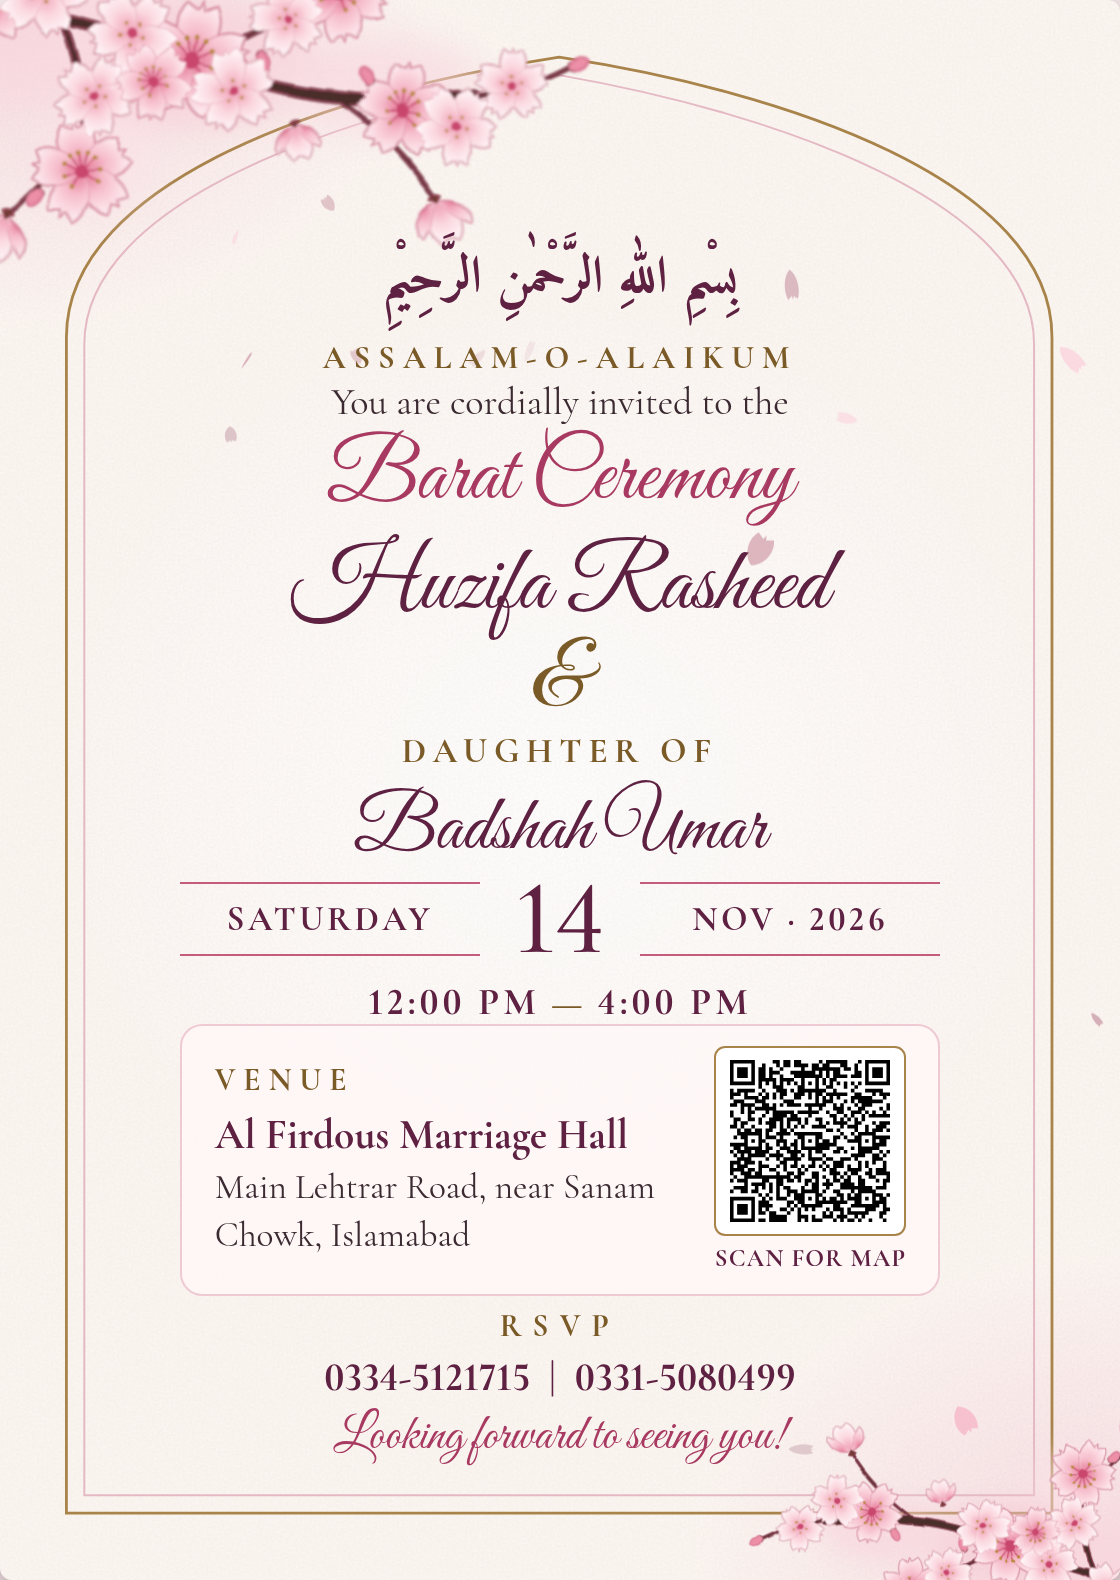
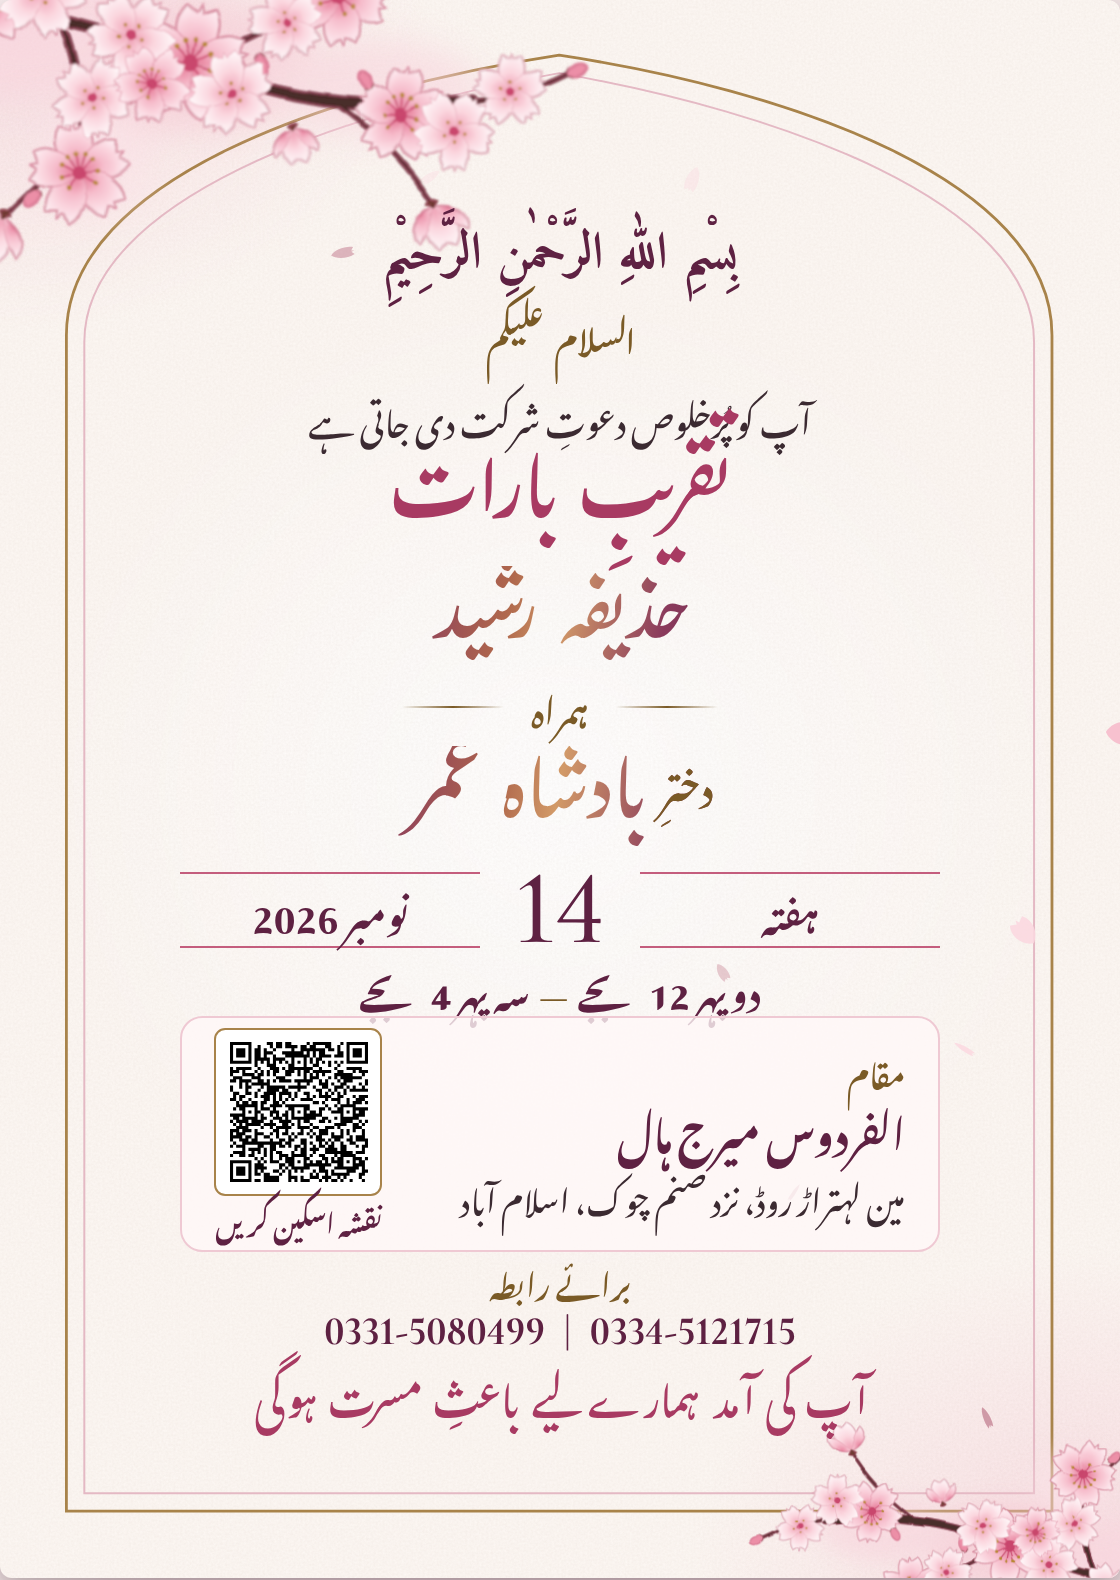
Urdu white (Blush) card: RTL Nastaliq typography, single-design mode, ivory envelope, rose-gold names, countdown

diff --git a/index.html b/index.html
@@ -10,7 +10,7 @@
 <meta property="og:image" content="card.png">
 <link rel="preconnect" href="https://fonts.googleapis.com">
 <link rel="preconnect" href="https://fonts.gstatic.com" crossorigin>
-<link href="https://fonts.googleapis.com/css2?family=Amiri:wght@400;700&family=Cormorant+Garamond:ital,wght@0,400;0,500;0,600;0,700;1,500&family=Great+Vibes&display=swap" rel="stylesheet">
+<link href="https://fonts.googleapis.com/css2?family=Amiri:wght@400;700&family=Cormorant+Garamond:ital,wght@0,400;0,500;0,600;0,700;1,500&family=Great+Vibes&family=Gulzar&family=Noto+Nastaliq+Urdu:wght@400;500;600;700&display=swap" rel="stylesheet">
 <style>
 :root{--page:#141010;--page-ink:#e9dcc6;--chip:#1f1817;--gold:#c9a14a}
 *{box-sizing:border-box;margin:0}
@@ -154,6 +154,47 @@ body.light .btn{border-color:#5e2142;color:#5e2142}body.light .btn.primary{backg
 .envelope.open .env{animation:sink 1s ease-in .9s forwards}
 .envelope.open{opacity:0;pointer-events:none}
 @keyframes sink{to{transform:translateY(40vh) scale(.9)}}
+/* ---------- Urdu ---------- */
+.card[lang="ur"] .content{font-family:"Noto Nastaliq Urdu",serif;padding-top:19.5cqw;padding-bottom:11.5cqw}
+.card[lang="ur"] .content *{letter-spacing:0!important;text-transform:none!important}
+.card[lang="ur"] .salam{font-family:Gulzar,serif;font-size:4cqw;line-height:1.5;margin-top:2.2cqw;font-weight:400}
+.card[lang="ur"] .lede{font-size:3.1cqw;line-height:1.75}
+.card[lang="ur"] .event{font-family:Gulzar,serif;font-size:8.2cqw;line-height:1.3;margin-top:0}
+.card[lang="ur"] .names{margin-top:0}
+.card[lang="ur"] .name{font-family:Gulzar,serif;font-size:7.8cqw;line-height:1.35;padding:0 3cqw}
+.card[lang="ur"] .name small{font-family:"Noto Nastaliq Urdu",serif;font-size:.42em;color:var(--label);-webkit-text-fill-color:var(--label);font-weight:600;vertical-align:.35em;margin-left:1.2cqw}
+.card[lang="ur"] .bride{display:none}
+.card[lang="ur"] .amp{font-family:"Noto Nastaliq Urdu",serif;font-size:3.2cqw;line-height:1.6;font-weight:600;display:flex;align-items:center;gap:2.5cqw;margin:-.6cqw 0 1cqw}
+.card[lang="ur"] .amp::before,.card[lang="ur"] .amp::after{content:"";width:9cqw;height:.18cqw;background:linear-gradient(90deg,transparent,var(--label),transparent)}
+.card[lang="ur"] .date .side{font-size:3.4cqw;line-height:1.8;padding:.1cqw 0;font-weight:600}
+.card[lang="ur"] .date .day{font-family:"Cormorant Garamond",serif}
+.card[lang="ur"] .time{font-size:3.15cqw;line-height:1.6;margin-top:.4cqw;font-weight:600}
+.card[lang="ur"] .venue-row{text-align:right;padding:.8cqw 3cqw}
+.card[lang="ur"] .venue{font-size:2.95cqw;line-height:1.8}
+.card[lang="ur"] .venue strong{font-size:3.6cqw;line-height:1.75}
+.card[lang="ur"] .venue small,.card[lang="ur"] .rsvp small{font-size:2.8cqw;line-height:1.6;margin:0;font-weight:600}
+.card[lang="ur"] .qr{width:15cqw;font-size:2.3cqw;line-height:1.7;font-family:"Noto Nastaliq Urdu",serif}
+.card[lang="ur"] .qr a{margin-bottom:.2cqw}
+.card[lang="ur"] .rsvp{margin-top:0;font-size:3.6cqw;line-height:1.3;font-family:"Cormorant Garamond",serif}
+.card[lang="ur"] .rsvp small{font-family:"Noto Nastaliq Urdu",serif;margin-bottom:.2cqw}
+.card[lang="ur"] .rsvp a{font-family:"Cormorant Garamond",serif}
+.card[lang="ur"] .close{font-family:Gulzar,serif;font-size:4.4cqw;line-height:1.5;margin-top:1.6cqw}
+body.ur .btn,body.ur .foot,body.ur .countdown,body.ur .env-cta,body.ur .picker{font-family:"Noto Nastaliq Urdu",serif;letter-spacing:0}
+body.ur .btn{font-size:15px;line-height:2;padding:8px 10px}
+body.ur .btn bdi{font-family:"Cormorant Garamond",serif;font-size:17px}
+body.ur .env-cta{font-size:20px}
+.card[data-theme="blush"] .name{background:linear-gradient(100deg,#5e2142 0%,#8a3a5c 22%,#b0684c 34%,#d29a68 40%,#8a3a5c 52%,#5e2142 70%,#7d3459 100%);
+  background-size:260% 100%;-webkit-background-clip:text;background-clip:text;color:transparent;animation:foil 9s linear infinite}
+.countdown{margin-top:16px;font-size:20px;color:var(--gold);text-align:center}
+.countdown:empty{display:none}
+body.light .countdown{color:#a83a62}
+/* the white design gets an ivory envelope with a rose seal */
+body.light .envelope{background:radial-gradient(circle at 50% 40%,#fff8f6,#f1dde0 75%)}
+body.light .env-body{background:linear-gradient(160deg,#fffdf9,#f7ece6);border-color:#c9a26a;box-shadow:0 30px 60px #5e214233}
+body.light .env-body::after{background:linear-gradient(to top right,transparent 49.6%,#c9a26a88 50%,transparent 50.4%),linear-gradient(to top left,transparent 49.6%,#c9a26a88 50%,transparent 50.4%)}
+body.light .env-flap::before{background:linear-gradient(180deg,#fdf3ef,#f3e2dc)}
+body.light .env-flap::after{background:#c9a26a}
+body.light .env-cta{color:#a83a62}
 @media (prefers-reduced-motion:reduce){.envelope{display:none}.branch,.lantern,.lantern svg,.name,.thread *{animation:none!important}}
 @media print{body{background:#fff;padding:0}.actions,.foot,.picker,.envelope{display:none}.card{box-shadow:none;width:148mm}}
 </style>
@@ -177,13 +218,13 @@ body.light .btn{border-color:#5e2142;color:#5e2142}body.light .btn.primary{backg
         <circle r="3" fill="#8a0d18"/>
       </g>
     </svg>
-    <div class="env-cta">Tap to open</div>
+    <div class="env-cta" data-t="envcta">Tap to open</div>
   </div>
 </div>
 
 <section class="picker" aria-label="Choose a design">
-  <h1>Choose your design</h1>
-  <p>Five designs, same invitation. Tap one to see it come alive.</p>
+  <h1 data-t="pick_h">Choose your design</h1>
+  <p data-t="pick_p">Five designs, same invitation. Tap one to see it come alive.</p>
   <div class="chips" id="chips"></div>
   <div class="blurb" id="blurb"></div>
 </section>
@@ -251,7 +292,7 @@ body.light .btn{border-color:#5e2142;color:#5e2142}body.light .btn.primary{backg
     </div>
     <div class="names">
       <div class="name" data-f="name_1"></div>
-      <div class="amp">&amp;</div>
+      <div class="amp" data-f="joiner">&amp;</div>
       <div class="bride" data-f="name_2_prefix"></div>
       <div class="name" data-f="name_2"></div>
     </div>
@@ -265,18 +306,18 @@ body.light .btn{border-color:#5e2142;color:#5e2142}body.light .btn.primary{backg
     </div>
     <div class="venue-row">
       <div class="venue">
-        <small>Venue</small>
+        <small data-t="venue">Venue</small>
         <strong data-f="venue_name"></strong>
         <span data-f="venue_address"></span>
       </div>
       <div class="qr">
         <a data-href="maps" aria-label="Open venue in Google Maps"><img src="qr.svg" alt="QR code to the venue on Google Maps"></a>
-        Scan for map
+        <span data-t="scan">Scan for map</span>
       </div>
     </div>
     <div>
       <div class="rsvp">
-        <small>RSVP</small>
+        <small data-t="rsvp">RSVP</small>
         <span id="rsvp"></span>
       </div>
       <div class="close" data-f="closing"></div>
@@ -285,30 +326,48 @@ body.light .btn{border-color:#5e2142;color:#5e2142}body.light .btn.primary{backg
 </main>
 
 <nav class="actions" aria-label="Invitation actions" id="actions">
-  <a class="btn primary" data-href="maps">Directions to the venue</a>
-  <a class="btn" data-href="calendar">Add to calendar</a>
-  <a class="btn" id="save" href="card-midnight.png" download="invite.png">Save card</a>
+  <a class="btn primary" data-href="maps" data-t="directions">Directions to the venue</a>
+  <a class="btn" data-href="calendar" data-t="calendar">Add to calendar</a>
+  <a class="btn" id="save" href="card-midnight.png" download="invite.png" data-t="save">Save card</a>
 </nav>
+<p class="countdown" id="countdown"></p>
 <p class="foot" id="foot"></p>
 
 <script src="invite.js"></script>
 <script>
-// Fill the card from invite.js.
-(()=>{const I=window.INVITE,$=s=>document.querySelectorAll(s);
-  const d=new Date(I.date+"T12:00:00"),t12=hm=>{let[h,m]=hm.split(":").map(Number);return `${(h%12)||12}:${String(m).padStart(2,"0")} ${h<12?"AM":"PM"}`};
+// Fill the card from invite.js. Text on the page (buttons, labels) comes from UI[lang].
+const UI={
+  en:{venue:"Venue",scan:"Scan for map",rsvp:"RSVP",directions:"Directions to the venue",calendar:"Add to calendar",save:"Save card",call:"Call",
+      foot:"With love and duas",envcta:"Tap to open",pick_h:"Choose your design",pick_p:"Five designs, same invitation. Tap one to see it come alive.",
+      days:n=>`${n} days to go`,today:"Today is the day!",title:e=>`${e.split(" ")[0]} Invitation`},
+  ur:{venue:"مقام",scan:"نقشہ اسکین کریں",rsvp:"برائے رابطہ",directions:"شادی ہال تک راستہ",calendar:"کیلنڈر میں شامل کریں",save:"کارڈ محفوظ کریں",call:"کال کریں",
+      foot:"دعاؤں کے ساتھ",envcta:"کھولنے کے لیے چھوئیں",pick_h:"ڈیزائن منتخب کریں",pick_p:"ایک دعوت نامہ، پانچ ڈیزائن۔",
+      days:n=>`${n} دن باقی ہیں`,today:"آج شادی کا دن ہے!",title:e=>`دعوت نامہ · ${e}`}};
+(()=>{const I=window.INVITE,L=I.lang==="ur"?"ur":"en",T=UI[L],$=s=>document.querySelectorAll(s);
+  const loc=L==="ur"?"ur-PK":"en-GB",d=new Date(I.date+"T12:00:00");
+  const t12=hm=>{let[h,m]=hm.split(":").map(Number),c=`${(h%12)||12}${m?":"+String(m).padStart(2,"0"):""}`;
+    if(L==="en")return `${(h%12)||12}:${String(m).padStart(2,"0")} ${h<12?"AM":"PM"}`;
+    return `${h<12?"صبح":h<15?"دوپہر":h<18?"سہ پہر":h<20?"شام":"رات"} ${c} بجے`};
   const utc=hm=>new Date(`${I.date}T${hm}:00${I.utc_offset}`).toISOString().replace(/[-:]|\.\d{3}/g,"");
   const tel=n=>"tel:+92"+n.replace(/\D/g,"").replace(/^0/,"");
-  const F={...I,weekday:d.toLocaleDateString("en-GB",{weekday:"long"}),day:d.getDate(),
-    monthyear:d.toLocaleDateString("en-GB",{month:"short"})+" · "+d.getFullYear(),t1:t12(I.time_start),t2:t12(I.time_end)};
+  const F={joiner:"&",...I,weekday:d.toLocaleDateString(loc,{weekday:"long"}),day:d.getDate(),
+    monthyear:d.toLocaleDateString(loc,{month:L==="ur"?"long":"short"})+(L==="ur"?" ":" · ")+d.getFullYear(),t1:t12(I.time_start),t2:t12(I.time_end)};
+  const card=document.getElementById("card");card.lang=L;card.dir=L==="ur"?"rtl":"ltr";document.documentElement.lang=L;
+  if(L==="ur"){document.body.classList.add("ur");["actions","countdown","foot"].forEach(id=>document.getElementById(id).dir="rtl")}
   $("[data-f]").forEach(e=>e.textContent=F[e.dataset.f]);
+  if(L==="ur"){const n2=document.querySelector('[data-f="name_2"]');n2.innerHTML=`<small></small><span></span>`;n2.firstChild.textContent=I.name_2_prefix;n2.lastChild.textContent=I.name_2;
+    const ad=document.querySelector('[data-f="venue_address"]');ad.textContent=I.venue_address.replace(/ (\S+)$/,"\u00a0$1")}
+  $("[data-t]").forEach(e=>e.textContent=T[e.dataset.t]);
   const H={maps:"https://www.google.com/maps/search/?api=1&query="+encodeURIComponent(I.maps_query),
     calendar:"https://calendar.google.com/calendar/render?action=TEMPLATE&text="+encodeURIComponent(`${I.event} – ${I.name_1}`)+
       `&dates=${utc(I.time_start)}/${utc(I.time_end)}&location=`+encodeURIComponent(I.venue_name+", "+I.venue_address)};
   $("[data-href]").forEach(e=>e.href=H[e.dataset.href]);
-  document.getElementById("rsvp").innerHTML=I.rsvp.map(n=>`<a href="${tel(n)}">${n}</a>`).join(" &nbsp;|&nbsp; ");
-  document.getElementById("actions").insertAdjacentHTML("beforeend",I.rsvp.map(n=>`<a class="btn" href="${tel(n)}">Call ${n}</a>`).join(""));
-  document.getElementById("foot").textContent="With love and duas · "+d.toLocaleDateString("en-GB",{day:"numeric",month:"long",year:"numeric"});
-  document.title=`${I.event.split(" ")[0]} Invitation`;
+  document.getElementById("rsvp").innerHTML=I.rsvp.map(n=>`<a href="${tel(n)}" dir="ltr">${n}</a>`).join(" &nbsp;|&nbsp; ");
+  document.getElementById("actions").insertAdjacentHTML("beforeend",I.rsvp.map(n=>`<a class="btn" href="${tel(n)}">${T.call} <bdi dir="ltr">${n}</bdi></a>`).join(""));
+  document.getElementById("foot").textContent=T.foot+(L==="ur"?" — ":" · ")+d.getDate()+" "+d.toLocaleDateString(loc,{month:"long"})+" "+d.getFullYear();
+  const left=Math.ceil((new Date(`${I.date}T${I.time_start}:00${I.utc_offset}`)-Date.now())/864e5);
+  document.getElementById("countdown").textContent=left>1?T.days(left):left>=0?T.today:"";
+  document.title=T.title(I.event);
 })();
 </script>
 <script>
@@ -417,8 +476,10 @@ function loop(ts){const dt=Math.min(.05,(ts-last)/1000||0);last=ts;step(dt);draw
 
 // ---------- picker ----------
 const chips=document.getElementById("chips"), blurb=document.getElementById("blurb"), save=document.getElementById("save"), defsEl=document.getElementById("defs");
-chips.innerHTML=Object.entries(THEMES).map(([k,v])=>`<button class="chip" data-k="${k}" aria-pressed="false"><span class="sw" style="background:${v.sw}"></span>${v.label}</button>`).join("");
-function setTheme(k){if(!THEMES[k])k="midnight";const th=THEMES[k];card.dataset.theme=k;defsEl.innerHTML=defs(th.p);
+const ALLOWED=window.INVITE.themes||Object.keys(THEMES);
+if(ALLOWED.length<2)document.querySelector(".picker").hidden=true;
+chips.innerHTML=Object.entries(THEMES).filter(([k])=>ALLOWED.includes(k)).map(([k,v])=>`<button class="chip" data-k="${k}" aria-pressed="false"><span class="sw" style="background:${v.sw}"></span>${v.label}</button>`).join("");
+function setTheme(k){if(!ALLOWED.includes(k))k=ALLOWED.includes(window.INVITE.theme)?window.INVITE.theme:ALLOWED[0];const th=THEMES[k];card.dataset.theme=k;defsEl.innerHTML=defs(th.p);
   document.body.classList.toggle("light",k==="blush");
   chips.querySelectorAll(".chip").forEach(c=>c.setAttribute("aria-pressed",c.dataset.k===k));
   blurb.textContent=th.blurb;save.href=`card-${k}.png`;save.download=`barat-invite-${k}.png`;

diff --git a/invite.js b/invite.js
@@ -1,21 +1,24 @@
 // Everything a family fills in. The page, the QR code and the card images are all built from this.
-// Keep it plain JSON after the "=" so tools/*.py can read it too.
+// Keep it plain JSON after "window.INVITE =" so tools/*.py can read it too. English example: examples/invite.en.js
 window.INVITE = {
-  "event": "Barat Ceremony",
+  "lang": "ur",
+  "themes": ["blush"],
+  "theme": "blush",
+  "event": "تقریبِ بارات",
   "greeting_ar": "بِسْمِ اللّٰهِ الرَّحْمٰنِ الرَّحِيْمِ",
-  "salam": "Assalam-o-Alaikum",
-  "lede": "You are cordially invited to the",
-  "name_1": "Huzifa Rasheed",
-  "name_2_prefix": "Daughter of",
-  "name_2": "Badshah Umar",
+  "salam": "السلام علیکم",
+  "lede": "آپ کو پُرخلوص دعوتِ شرکت دی جاتی ہے",
+  "name_1": "حذیفہ رشید",
+  "joiner": "ہمراہ",
+  "name_2_prefix": "دخترِ",
+  "name_2": "بادشاہ عمر",
   "date": "2026-11-14",
   "time_start": "12:00",
   "time_end": "16:00",
   "utc_offset": "+05:00",
-  "venue_name": "Al Firdous Marriage Hall",
-  "venue_address": "Main Lehtrar Road, near Sanam Chowk, Islamabad",
+  "venue_name": "الفردوس میرج ہال",
+  "venue_address": "مین لہتراڑ روڈ، نزد صنم چوک، اسلام آباد",
   "maps_query": "Al Firdous Marriage Hall, Lehtrar Road, Sanam Chowk, Islamabad",
   "rsvp": ["0334-5121715", "0331-5080499"],
-  "closing": "Looking forward to seeing you!",
-  "theme": "midnight"
+  "closing": "آپ کی آمد ہمارے لیے باعثِ مسرت ہوگی"
 }

diff --git a/examples/invite.en.js b/examples/invite.en.js
@@ -1,0 +1,21 @@
+// Everything a family fills in. The page, the QR code and the card images are all built from this.
+// Keep it plain JSON after the "=" so tools/*.py can read it too.
+window.INVITE = {
+  "event": "Barat Ceremony",
+  "greeting_ar": "بِسْمِ اللّٰهِ الرَّحْمٰنِ الرَّحِيْمِ",
+  "salam": "Assalam-o-Alaikum",
+  "lede": "You are cordially invited to the",
+  "name_1": "Huzifa Rasheed",
+  "name_2_prefix": "Daughter of",
+  "name_2": "Badshah Umar",
+  "date": "2026-11-14",
+  "time_start": "12:00",
+  "time_end": "16:00",
+  "utc_offset": "+05:00",
+  "venue_name": "Al Firdous Marriage Hall",
+  "venue_address": "Main Lehtrar Road, near Sanam Chowk, Islamabad",
+  "maps_query": "Al Firdous Marriage Hall, Lehtrar Road, Sanam Chowk, Islamabad",
+  "rsvp": ["0334-5121715", "0331-5080499"],
+  "closing": "Looking forward to seeing you!",
+  "theme": "midnight"
+}

diff --git a/tools/make_qr.py b/tools/make_qr.py
@@ -4,7 +4,7 @@ import json, pathlib, urllib.parse
 import qrcode, qrcode.image.svg
 
 root = pathlib.Path(__file__).resolve().parent.parent
-invite = json.loads((root / "invite.js").read_text().split("window.INVITE =", 1)[1].strip().rstrip(";"))
+invite = json.loads((root / "invite.js").read_text().rsplit("window.INVITE =", 1)[1].strip().rstrip(";"))
 url = "https://www.google.com/maps/search/?api=1&query=" + urllib.parse.quote_plus(invite["maps_query"])
 qr = qrcode.QRCode(error_correction=qrcode.constants.ERROR_CORRECT_M, border=0, image_factory=qrcode.image.svg.SvgPathImage)
 qr.add_data(url)

diff --git a/tools/render_cards.py b/tools/render_cards.py
@@ -22,7 +22,7 @@ with sync_playwright() as p:
         page.close()
     browser.close()
 
-default = json.loads((root / "invite.js").read_text().split("window.INVITE =", 1)[1].strip().rstrip(";"))["theme"]
+default = json.loads((root / "invite.js").read_text().rsplit("window.INVITE =", 1)[1].strip().rstrip(";"))["theme"]
 if default in themes:
     shutil.copy(root / f"card-{default}.png", root / "card.png")
 

diff --git a/README.md b/README.md
@@ -3,13 +3,14 @@
 Animated wedding invitation cards: one data file in, five designs out, each as a web page and a WhatsApp-ready PNG.
 It started as a Barat invitation for Kamal's sister (live at https://oyekamal.github.io/walima-invite/). The plan is to grow it into an app where any family types in their details and gets a beautiful card.
 
-![Midnight Sakura](card-midnight.png)
+![Blush Sakura in Urdu](card-blush.png)
 
 ## What's here
 
 | File | What it does |
 |---|---|
-| `invite.js` | **The only file a family edits.** Names, event, date, time, venue, map search, RSVP numbers, closing line, default design. |
+| `examples/invite.en.js` | The same invitation in English, as a second example. Copy it over `invite.js` to switch. |
+| `invite.js` | **The only file a family edits.** (Currently the live Urdu Barat card.) Names, event, date, time, venue, map search, RSVP numbers, closing line, default design. |
 | `index.html` | The template. All five designs, the design picker, the envelope intro, the wind animation, and the action buttons. It fills itself from `invite.js`. |
 | `qr.svg` | The QR code on the card. It opens the venue in Google Maps. Generated, don't edit by hand. |
 | `card-<design>.png`, `card.png` | Still images of each design (1120×1580) for WhatsApp and printing. `card.png` is the default design and the link-preview image. |
@@ -39,7 +40,10 @@ To share a single design, add its name after `#` in the link, for example `…/#
 | `maps_query` | `Al Firdous Marriage Hall, Lehtrar Road, …` | Used for the QR code and the Directions button. Test it in Google Maps first. |
 | `rsvp` | `["0334-5121715", …]` | Pakistani numbers. Each one becomes a `tel:+92…` link and a Call button. |
 | `closing` | `Looking forward to seeing you!` | |
-| `theme` | `midnight` | The default design. |
+| `theme` | `blush` | The default design. |
+| `themes` | `["blush"]` | Which designs the page offers. A single design hides the picker; leave it out to offer all five. |
+| `lang` | `ur` or `en` | `ur` switches the card and the page to right-to-left Urdu: Gulzar for names and headings, Noto Nastaliq Urdu for the rest, Urdu buttons, Urdu times ("دوپہر 12 بجے"). |
+| `joiner` | `ہمراہ` | The word between the two names. Defaults to `&`. In Urdu the `name_2_prefix` (e.g. `دخترِ`) sits inline before the second name. |
 
 ## The five designs
 
@@ -58,6 +62,8 @@ How it works:
 - **Wind** is one flow field on a `<canvas>`. Petals, gold dust and air currents all move through it, and a gust function makes them speed up now and then. Marks fade in the text column so the words stay clean.
 - **Card sizing** uses container-query units (`cqw`), so the card scales as one piece at any width.
 - **Envelope intro** shows once per visit (sessionStorage).
+- **Countdown** under the card ("27 دن باقی ہیں" / "27 days to go"), worked out from the date and start time.
+- **The white design** gets an ivory envelope and rose-gold shimmer on the names.
 - **Reduced motion:** with the system setting on, the page skips the envelope and shows a still frame.
 
 ## Checks before sharing a card
